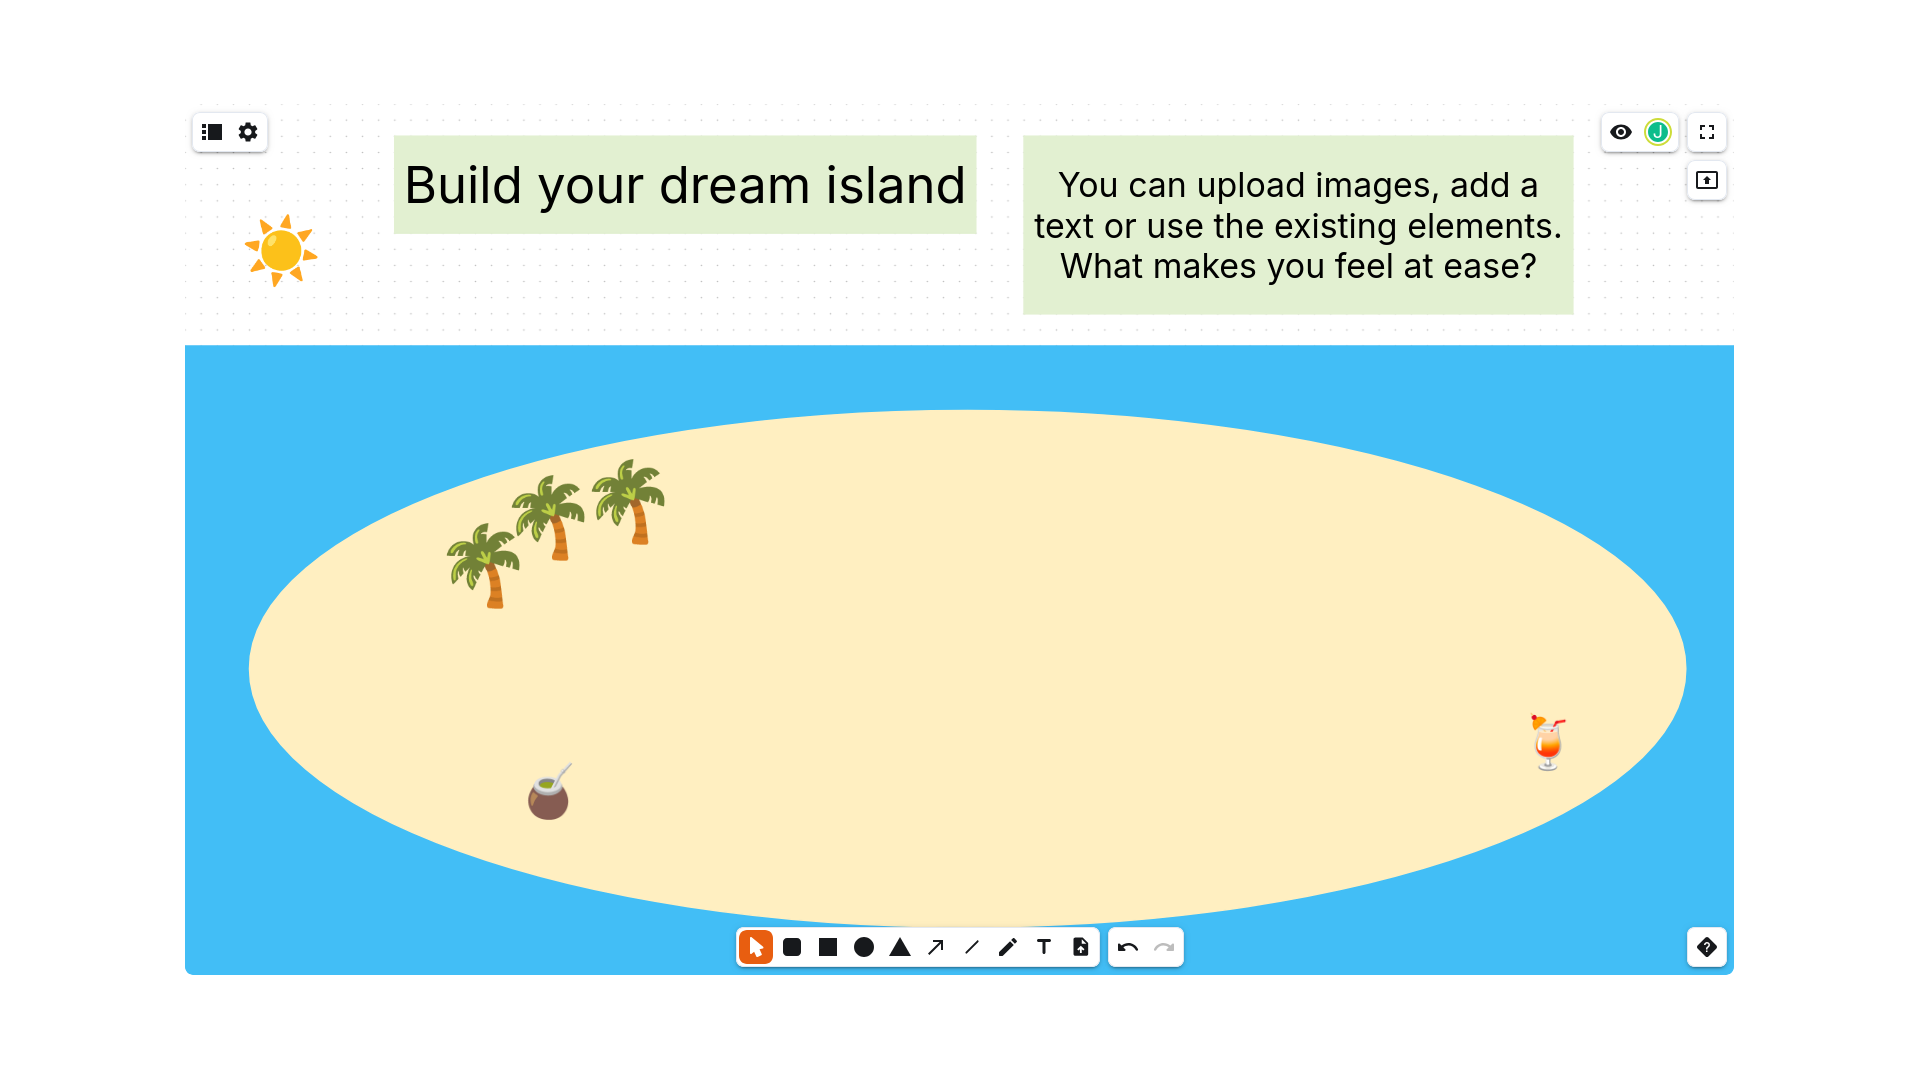
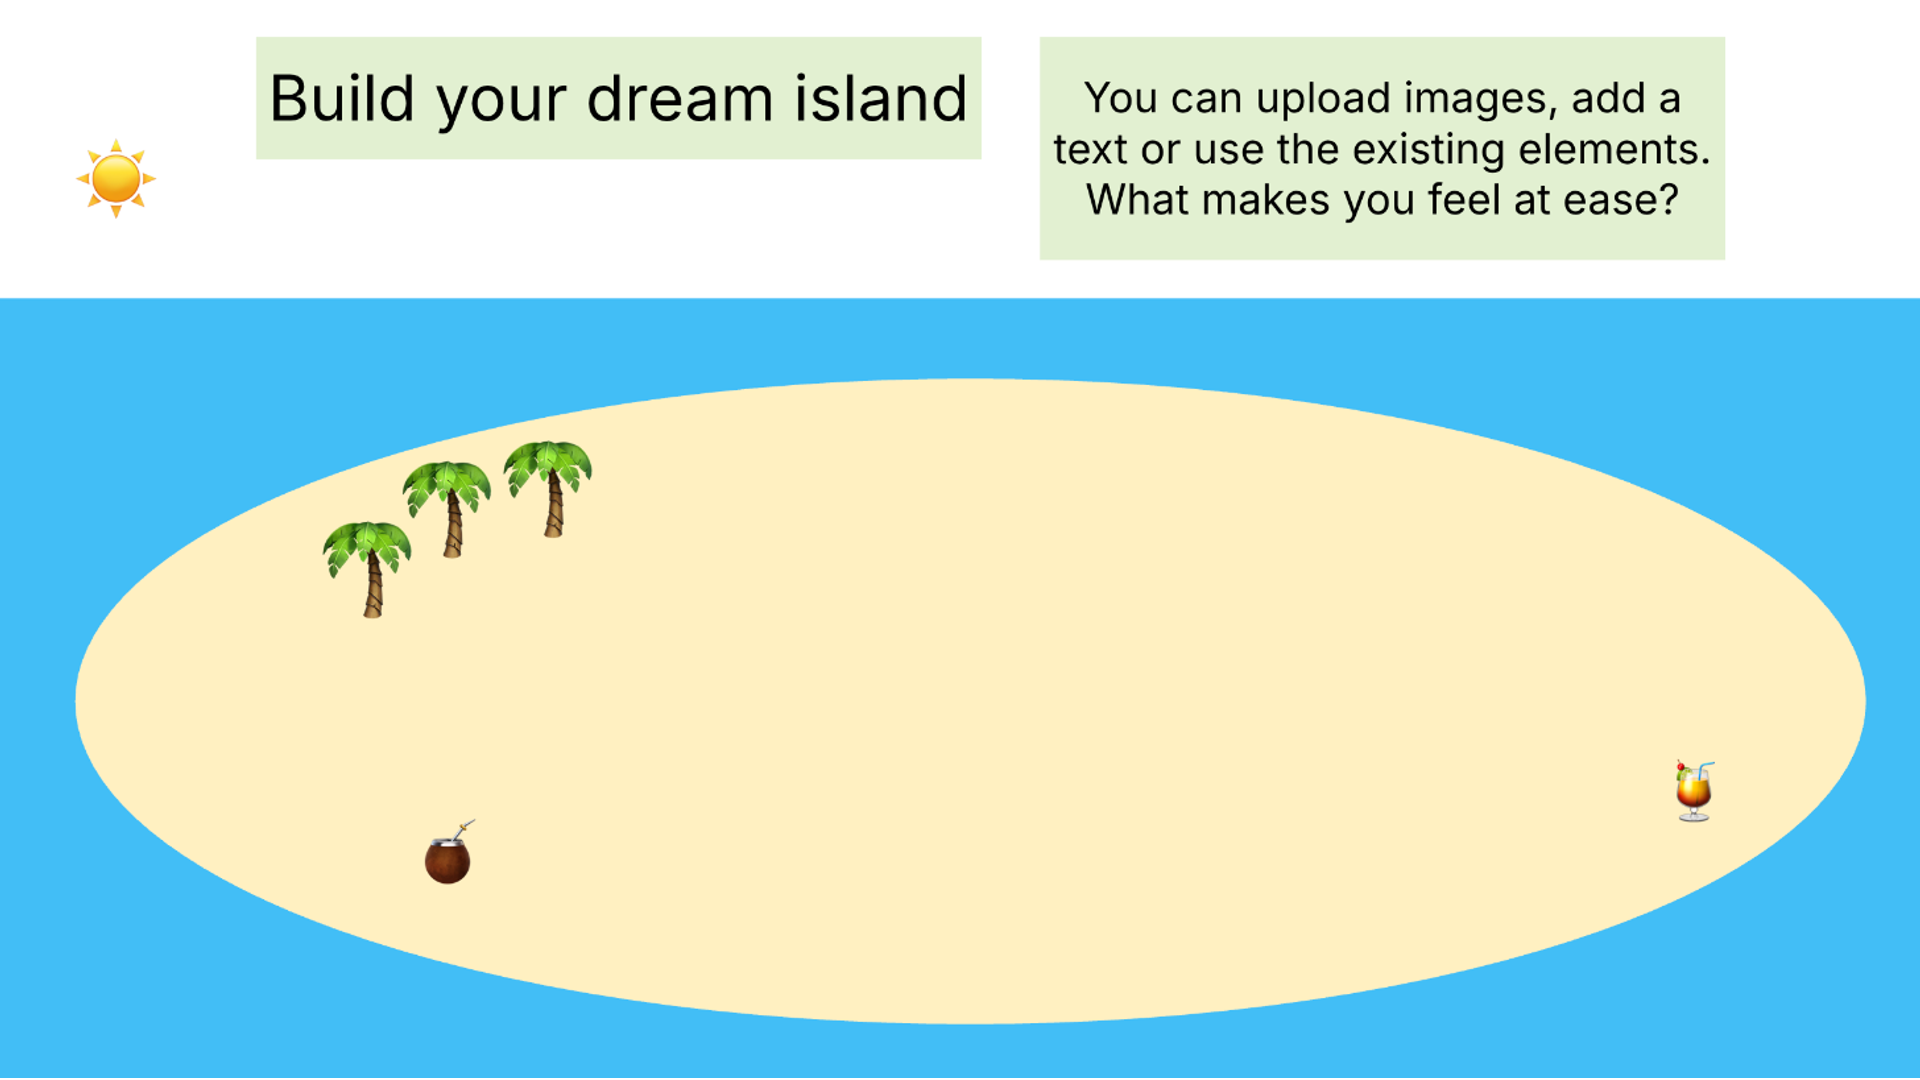
Add board previews captured on demo.neoboard.io
- Add or replace 58 preview images (57 captures plus year-calendar en,
  a copy of de), normalized to 1920x1080 PNG with white padding
- Replace previews of migrated templates that showed toolbars and grid
- Turn the commented-out preview blocks of the 24 new templates into
  real preview frontmatter; add previews to year-calendar, retro-formats
  and retro-check-ins
- Publish 19 template pages; update draft reasons for the remaining
  cleanup and publication-decision drafts

diff --git a/content/templates/project-planning/index.de.md b/content/templates/project-planning/index.de.md
@@ -9,9 +9,9 @@ features:
   - "Themenspeicher für offene Punkte"
   - "Zeitachse mit Entwürfen, Feedbackrunden und Tests"
   - "Namenskarten für Zuständigkeiten"
-# preview: pending screenshot (see concept doc, part C)
-#   src: ./preview.de.png
-#   alt: "Projektplanung mit einer Spalte für Issues und einer Zeitachse mit Entwürfen und Testphasen"
+preview:
+  src: ./preview.de.png
+  alt: "Projektplanung mit einer Spalte für Issues und einer Zeitachse mit Entwürfen und Testphasen"
 files:
   - src: ./project-planning-beispiel.de.nwb
     label: "Ausgefülltes Beispiel"
@@ -20,7 +20,7 @@ authors:
 license: AGPL-3.0-or-later
 published: 2026-10-20
 draft: true
-# draft reason: no preview yet
+# draft reason: publication decision pending (optional)
 # publish decision (metadata grid): optional, als Beispiel
 # note (metadata grid): Zwei übereinanderliegende Titel („Planning and Process Tracking" verdeckt unter „Projekt- und Zeitplanung"); der englische sollte entfernt werden.
 ---

diff --git a/content/templates/kickoff-agenda-pyramid/index.de.md b/content/templates/kickoff-agenda-pyramid/index.de.md
@@ -9,9 +9,9 @@ features:
   - "Vorbereitete Agenda mit acht Punkten"
   - "Zielpyramide: Basics bis Sahnehäubchen"
   - "Hinweispfeil für Wichtiges"
-# preview: pending screenshot (see concept doc, part C)
-#   src: ./preview.de.png
-#   alt: "Board mit Agenda-Liste links und einer Pyramide von Basics bis Sahnehäubchen rechts"
+preview:
+  src: ./preview.de.png
+  alt: "Board mit Agenda-Liste links und einer Pyramide von Basics bis Sahnehäubchen rechts"
 files:
   - src: ./kickoff-agenda-pyramid.de.nwb
     label: "Vorlage"
@@ -22,7 +22,7 @@ authors:
 license: AGPL-3.0-or-later
 published: 2026-10-20
 draft: true
-# draft reason: no preview yet
+# draft reason: cleanup pending – persönliche Notizen entfernen
 # publish decision (metadata grid): ja, nach Entfernen der persönlichen Notizen
 # note (metadata grid): Persönliche Inhalte entfernen: Haftnotiz „Mit Max abstimmen!", Datum „24.03.", Freihandlinie. Titel „Teams A und B" neutralisieren.
 ---

diff --git a/content/templates/work-modes/index.de.md b/content/templates/work-modes/index.de.md
@@ -9,9 +9,9 @@ features:
   - "Vier Arbeitsorte mit Symbolen"
   - "Unterscheidung synchron und asynchron"
   - "Grundlage für Team-Vereinbarungen"
-# preview: pending screenshot (see concept doc, part C)
-#   src: ./preview.de.png
-#   alt: "Board mit Symbolen für Büro, unterwegs, remote und Unterricht sowie den Zeilen synchron und asynchron"
+preview:
+  src: ./preview.de.png
+  alt: "Board mit Symbolen für Büro, unterwegs, remote und Unterricht sowie den Zeilen synchron und asynchron"
 files:
   - src: ./work-modes.de.nwb
     label: "Vorlage"
@@ -22,7 +22,7 @@ authors:
 license: AGPL-3.0-or-later
 published: 2026-10-20
 draft: true
-# draft reason: no preview yet
+# draft reason: publication decision pending (optional)
 # publish decision (metadata grid): optional – als Vorlage „Arbeitsorte & -modi" nutzbar
 # note (metadata grid): Ursprünglich Showcase. Als Vorlage nutzbar, wenn Karten ergänzt werden.
 ---

diff --git a/content/templates/check-out-weather/index.de.md b/content/templates/check-out-weather/index.de.md
@@ -9,9 +9,9 @@ features:
   - "Drei Themenwolken: Produktivität, Stimmung, Ergebnisse"
   - "Sechs Wettersymbole zum Kopieren"
   - "Visuelles Feedback in wenigen Minuten"
-# preview: pending screenshot (see concept doc, part C)
-#   src: ./preview.de.png
-#   alt: "Check-out-Board mit drei Wolken und einer Reihe Wettersymbole von Sonne bis Gewitter"
+preview:
+  src: ./preview.de.png
+  alt: "Check-out-Board mit drei Wolken und einer Reihe Wettersymbole von Sonne bis Gewitter"
 files:
   - src: ./check-out-weather.de.nwb
     label: "Vorlage"
@@ -22,7 +22,7 @@ authors:
 license: AGPL-3.0-or-later
 published: 2026-10-20
 draft: true
-# draft reason: no preview yet
+# draft reason: cleanup pending – Fragetext korrigieren
 # publish decision (metadata grid): ja, nach Korrektur des Fragetexts
 # note (metadata grid): Tippfehler im Fragetext: „mir dieser Konferenz" → „mit dieser Veranstaltung" (neutraler).
 ---

diff --git a/content/templates/responsibilities-timeline/index.de.md b/content/templates/responsibilities-timeline/index.de.md
@@ -9,9 +9,9 @@ features:
   - "Monatsachse über sieben Monate"
   - "Namensschilder für Verantwortliche"
   - "Beispielkarten zeigen die Nutzung"
-# preview: pending screenshot (see concept doc, part C)
-#   src: ./preview.de.png
-#   alt: "Zeitachse von August bis Februar mit Aufgabenkarten und Namensschildern"
+preview:
+  src: ./preview.de.png
+  alt: "Zeitachse von August bis Februar mit Aufgabenkarten und Namensschildern"
 files:
   - src: ./responsibilities-timeline.de.nwb
     label: "Vorlage"
@@ -22,7 +22,7 @@ authors:
 license: AGPL-3.0-or-later
 published: 2026-10-20
 draft: true
-# draft reason: no preview yet
+# draft reason: cleanup pending – Monate aktualisieren
 # publish decision (metadata grid): ja, nach Anpassen der Monate
 # note (metadata grid): Monate Aug 2026 – Feb 2027 sind fest beschriftet und veralten. Beispielnamen (Heinrich Hausmeister, Louise Lehrkraft) bewusst als Muster?
 ---

diff --git a/content/templates/retro-continue-stop-invent-act/index.de.md b/content/templates/retro-continue-stop-invent-act/index.de.md
@@ -9,9 +9,9 @@ features:
   - "Vier Felder mit Leitfragen"
   - "Farbige Kartenstapel je Feld"
   - "Führt direkt zu Maßnahmen mit Verantwortlichen"
-# preview: pending screenshot (see concept doc, part C)
-#   src: ./preview.de.png
-#   alt: "Retrospektiven-Board mit den Feldern Beibehalten, Beenden, Erfinden und Umsetzen samt Leitfragen"
+preview:
+  src: ./preview.de.png
+  alt: "Retrospektiven-Board mit den Feldern Beibehalten, Beenden, Erfinden und Umsetzen samt Leitfragen"
 files:
   - src: ./retro-continue-stop-invent-act.de.nwb
     label: "Vorlage"
@@ -23,8 +23,6 @@ authors:
   - name: "Nordeck IT + Consulting GmbH"
 license: AGPL-3.0-or-later
 published: 2026-10-20
-draft: true
-# draft reason: no preview yet
 # publish decision (metadata grid): ja, als deutsche Datei der Retro
 # note (metadata grid): Gleiche Methode wie T05 (englisch) und Beispiel T24. ACT-Karten gehen weiter an T15.
 ---

diff --git a/content/templates/lean-coffee/index.de.md b/content/templates/lean-coffee/index.de.md
@@ -9,9 +9,9 @@ features:
   - "Spalten für Sammlung, Auswahl, Diskussion und Erledigt"
   - "Bereich für Aufgaben"
   - "Vorbereiteter Themenkarten-Stapel"
-# preview: pending screenshot (see concept doc, part C)
-#   src: ./preview.de.png
-#   alt: "Lean-Coffee-Board mit den Spalten Themensammlung, Auswahl, Diskussion und Erledigt"
+preview:
+  src: ./preview.de.png
+  alt: "Lean-Coffee-Board mit den Spalten Themensammlung, Auswahl, Diskussion und Erledigt"
 files:
   - src: ./lean-coffee.de.nwb
     label: "Vorlage"
@@ -21,8 +21,6 @@ authors:
   - name: "Nordeck IT + Consulting GmbH"
 license: AGPL-3.0-or-later
 published: 2026-10-20
-draft: true
-# draft reason: no preview yet
 # publish decision (metadata grid): ja, als deutsche Datei von „lean-coffee"
 # note (metadata grid): Methodenbeschreibung übernommen aus dem Textfeld neben dem Original-Frame (unverändert).
 ---

diff --git a/content/templates/lean-coffee/index.en.md b/content/templates/lean-coffee/index.en.md
@@ -9,9 +9,9 @@ features:
   - "Columns for collecting, selecting, discussing and closing topics"
   - "Area for action items"
   - "Topic card stack ready to use"
-# preview: pending screenshot (see concept doc, part C)
-#   src: ./preview.en.png
-#   alt: "Lean Coffee board with columns Topic Collection, Topic Selection, Topic Discussion and Done Topics"
+preview:
+  src: ./preview.en.png
+  alt: "Lean Coffee board with columns Topic Collection, Topic Selection, Topic Discussion and Done Topics"
 files:
   - src: ./lean-coffee.en.nwb
     label: "Template"
@@ -21,8 +21,6 @@ authors:
   - name: "Nordeck IT + Consulting GmbH"
 license: AGPL-3.0-or-later
 published: 2026-10-20
-draft: true
-# draft reason: no preview yet
 # publish decision (metadata grid): ja, als englische Datei von „lean-coffee"
 # note (metadata grid): Gleiche Methode wie T14 (deutsch).
 ---

diff --git a/content/templates/retro-continue-stop-invent-act/index.en.md b/content/templates/retro-continue-stop-invent-act/index.en.md
@@ -9,9 +9,9 @@ features:
   - "Four quadrants: Continue, Stop, Invent, Act"
   - "Colour-coded card stacks per quadrant"
   - "Leads directly to concrete actions"
-# preview: pending screenshot (see concept doc, part C)
-#   src: ./preview.en.png
-#   alt: "Retrospective board with the four quadrants Continue, Stop, Invent and Act"
+preview:
+  src: ./preview.en.png
+  alt: "Retrospective board with the four quadrants Continue, Stop, Invent and Act"
 files:
   - src: ./retro-continue-stop-invent-act.en.nwb
     label: "Template"
@@ -21,8 +21,6 @@ authors:
   - name: "Nordeck IT + Consulting GmbH"
 license: AGPL-3.0-or-later
 published: 2026-10-20
-draft: true
-# draft reason: no preview yet
 # publish decision (metadata grid): ja, als englische Datei der Retro
 # note (metadata grid): Gleiche Methode wie T13 (deutsch, mit Leitfragen) und Beispiel T24.
 ---

diff --git a/content/templates/project-timeline/index.en.md b/content/templates/project-timeline/index.en.md
@@ -9,9 +9,9 @@ features:
   - "Milestones A–F on a time axis"
   - "Phases for maintenance and end of life"
   - "Text field for project description"
-# preview: pending screenshot (see concept doc, part C)
-#   src: ./preview.en.png
-#   alt: "Project timeline with milestones A to F, maintenance and end of life"
+preview:
+  src: ./preview.en.png
+  alt: "Project timeline with milestones A to F, maintenance and end of life"
 files:
   - src: ./project-timeline.en.nwb
     label: "Template"
@@ -22,7 +22,7 @@ authors:
 license: AGPL-3.0-or-later
 published: 2026-10-20
 draft: true
-# draft reason: no preview yet
+# draft reason: cleanup pending – Lorem ipsum ersetzen
 # publish decision (metadata grid): ja, nach Ersetzen der Lorem-ipsum-Texte
 # note (metadata grid): Enthält Lorem-ipsum-Platzhalter – vor Veröffentlichung ersetzen.
 ---

diff --git a/content/templates/two-team-welcome/index.de.md b/content/templates/two-team-welcome/index.de.md
@@ -9,9 +9,9 @@ features:
   - "Zwei Teamseiten mit eigenem Kartenstapel"
   - "Leitfrage zu den Erwartungen"
   - "Mittelfeld für gemeinsame Themen"
-# preview: pending screenshot (see concept doc, part C)
-#   src: ./preview.de.png
-#   alt: "Begrüßungsboard mit zwei Stühlen für Team A und Team B und einer Leitfrage in der Mitte"
+preview:
+  src: ./preview.de.png
+  alt: "Begrüßungsboard mit zwei Stühlen für Team A und Team B und einer Leitfrage in der Mitte"
 files:
   - src: ./two-team-welcome.de.nwb
     label: "Vorlage"
@@ -21,8 +21,6 @@ authors:
   - name: "Nordeck IT + Consulting GmbH"
 license: AGPL-3.0-or-later
 published: 2026-10-20
-draft: true
-# draft reason: no preview yet
 # publish decision (metadata grid): ja
 # note (metadata grid): Teamnamen „Team A" und „Team B" als Platzhalter belassen oder anpassen.
 ---

diff --git a/content/templates/where-do-we-stand/index.de.md b/content/templates/where-do-we-stand/index.de.md
@@ -9,9 +9,9 @@ features:
   - "Vier farbige Felder"
   - "Kurz, klar und für jedes Projekt nutzbar"
   - "Schafft die Grundlage zum Priorisieren"
-# preview: pending screenshot (see concept doc, part C)
-#   src: ./preview.de.png
-#   alt: "Board mit den vier Feldern weiter so, lieber lassen, neu beginnen oder ändern und Risiken"
+preview:
+  src: ./preview.de.png
+  alt: "Board mit den vier Feldern weiter so, lieber lassen, neu beginnen oder ändern und Risiken"
 files:
   - src: ./where-do-we-stand.de.nwb
     label: "Vorlage"
@@ -21,8 +21,6 @@ authors:
   - name: "Nordeck IT + Consulting GmbH"
 license: AGPL-3.0-or-later
 published: 2026-10-20
-draft: true
-# draft reason: no preview yet
 # publish decision (metadata grid): ja
 # note (metadata grid): Ähnlich zur Retrospektive, aber mit Risiko-Feld statt Erfinden/Umsetzen.
 ---
